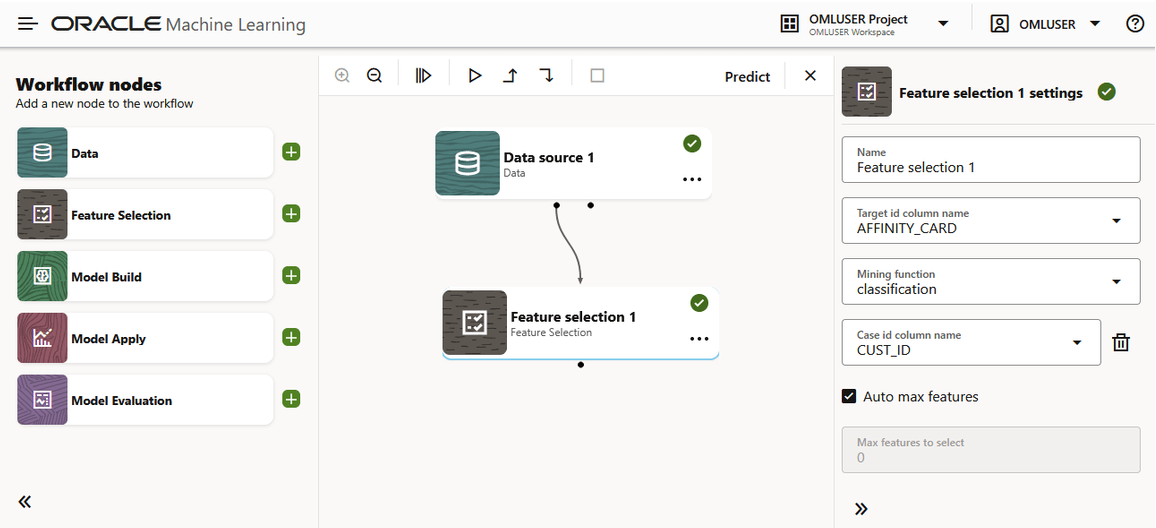
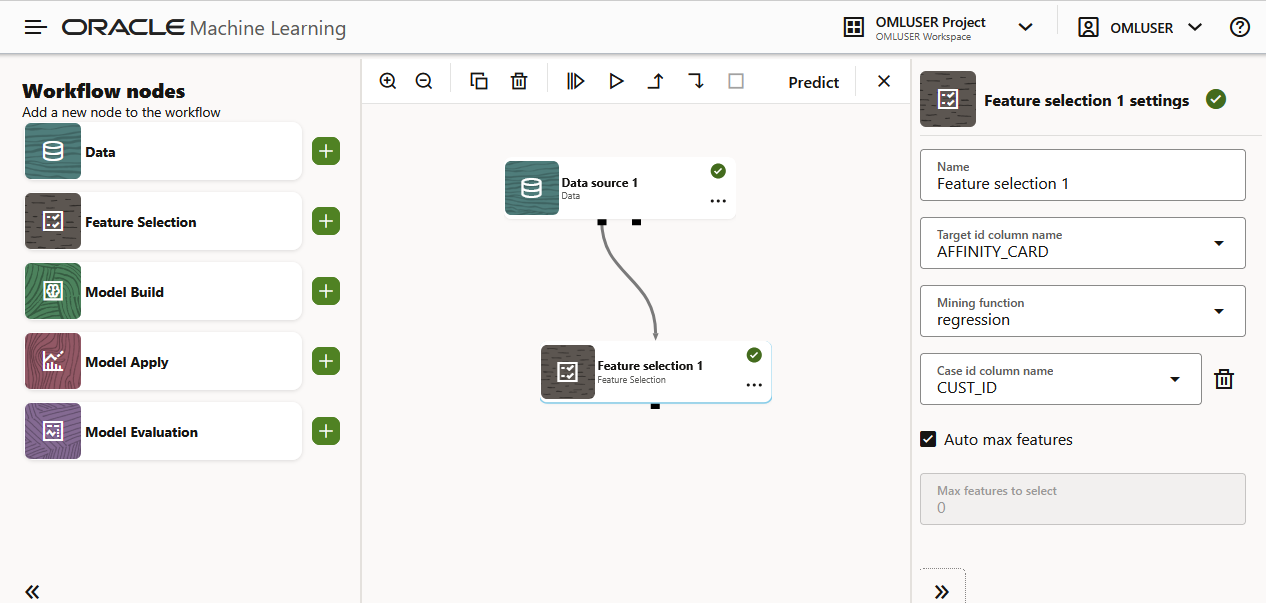
OML workflow lab updated

diff --git a/oml-fun-on-adb/oml-workflow/oml-workflow.md b/oml-fun-on-adb/oml-workflow/oml-workflow.md
@@ -62,12 +62,12 @@ To create a workflow:
 
 3. Confirm that the blank workflow opens in the workflow editor.
 
-   ![Workflows canvas](images/oml-homepage.png)
+   ![Workflows canvas](images/pallete-canvas.png)
 
-4. Identify the main areas of the editor:
-   * **Workflow Nodes palette** on the left: contains nodes that you can add to the workflow.
-   * **Canvas** in the center: where you arrange nodes and their connections.
-   * **Settings pane** on the right: displays settings for the selected node. It is collapsed by default; select the expand control to open it.
+   Identify the main areas of the editor:
+   * **Workflow Nodes palette:** This is on the left and contains nodes that you can add to the workflow.
+   * **Canvas:** This is in the center, where you arrange nodes and their connections.
+   * **Settings pane:** This is on the right. It displays settings for the selected node. It is collapsed by default. Click on the expand control << to open it.
 
 ## Task 3: Add a Data Source node
 
@@ -78,13 +78,13 @@ To create and run a Data Source node:
 
 2. Adding a node automatically opens the settings pane on the right. Define the following settings:
 
-      * **Name:** Enter a name. In this example, it is Data source 1.
+      * **Name:** Enter a name. In this example, it is `Data source 1`.
       * **Source Schema:** Click on the drop-down menu to select the schema. Here, SH schema is selected.
-      * **Source table:** Click on the drop-down menu to select the table. Here, `SUPPLEMENTARY_DEMOGRAPHICS` table is selected. Once you select the table, the Features field below displays the columns of the table. 
+      * **Source table:** Click on the drop-down menu to select the table. Here, `SUPPLEMENTARY_DEMOGRAPHICS` table is selected. Once you select the table, the Features field below displays the columns of the table.
       * **Target ID column name:** From the drop-down menu, select a target. This is the target for your prediction. Select `AFFINITY_CARD`.
       * **Features:** This field displays all the columns of the selected table, and has all of them selected. You may deselect any column.
       * **Split Data:** By default, this option is selected and 20% is allotted for test data. You can edit this field.
-      * Compute Descriptive Stats: Select this option to allot a dataset percentage for descriptive statistics computation. The default is `100%`.
+      * **Compute Descriptive Stats:** Select this option to allot a dataset percentage for descriptive statistics computation. The default is `100%`.
       * **Compute Data Correlation:** Select this option if you want to compute correlation between two variables in the dataset. Correlation is a bivariate analysis that measures the strength of association between two variables and the direction of the relationship. IN this lab, select `pearson`.
 
          ![Data Source node settings](images/settings-data-source.png)
@@ -125,7 +125,7 @@ To add and run a Feature Selection node:
 
    ![Connection ports in Data Source node](images/ds-connection-ports.png)
 
-3. After connecting the nodes, click on the **Feature Selection** node to open the settings and provide these details: 
+3. After connecting the nodes, click on the **Feature Selection** node to open the settings and provide these details:
 
       * **Name:** Enter `Feature Selection 1`.
       * **Target id column name:** Select `AFFINITY_CARD`.
@@ -190,11 +190,9 @@ To add and run a Model Evaluation node:
 
 2. From the Model Build node, establish a connection to the Model Evaluation node. If you are adding it manually, establish a connection from the Upstream node (Model Build node) to the Downstream node (Model Evaluation node). For this, click on the connection port indicated by the dot on the Upstream node. A connector appears. Drag the connector to the downstream node to establish the connection.
 
+      ![Model Evaluate node settings](images/wf-model-eval.png)
 
       >**Note:** The Model Evaluation node is a terminal node. You cannot add any downstream nodes to it.
-
-3. Drag and drop another Data Source node and establish a connection to the Model Evaluation node. Define the second Data Source node with the same settings.
-   ![Model Evaluate node settings](images/settings-model-eval.png)
 
 
 4. After connecting the nodes, define the settings.
